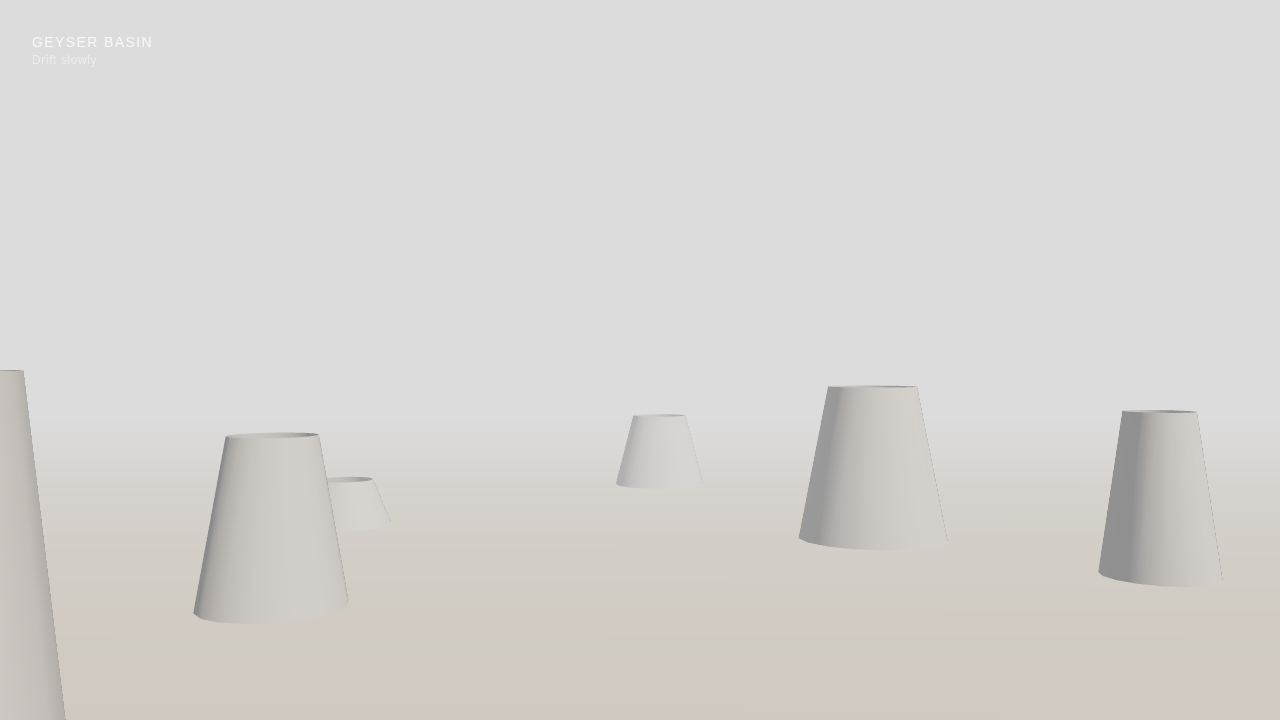
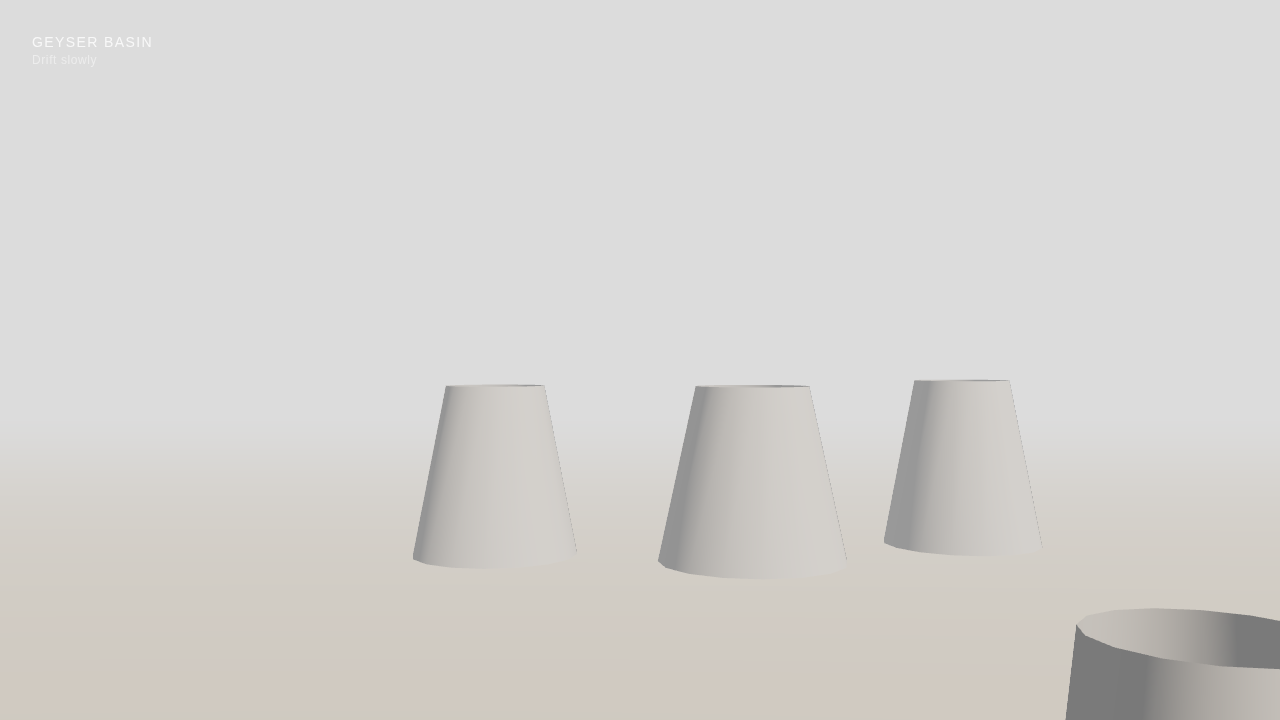
Fix review comments from PR #1

diff --git a/src/realms/GeyserBasin.js b/src/realms/GeyserBasin.js
@@ -1,5 +1,14 @@
 import * as THREE from 'three';
 
+const GEYSER_COUNT = 8;
+const GEYSER_MIN_HEIGHT = 0.5;
+const GEYSER_HEIGHT_RANGE = 1.5;
+const GEYSER_MIN_RADIUS = 0.3;
+const GEYSER_RADIUS_RANGE = 0.7;
+const GEYSER_MIN_DIST = 2;
+const GEYSER_DIST_RANGE = 8;
+const GEYSER_TOP_RADIUS_RATIO = 0.6;
+
 export class GeyserBasin {
     constructor() {
         this.group = new THREE.Group();
@@ -23,24 +32,26 @@ export class GeyserBasin {
             groundMaterial
         );
         ground.rotation.x = -Math.PI * 0.5;
+        ground.receiveShadow = true;
         this.group.add(ground);
 
         // Geysers (simple cylinders/cones)
-        for(let i = 0; i < 8; i++) {
-            const height = 0.5 + Math.random() * 1.5;
-            const radius = 0.3 + Math.random() * 0.7;
+        for(let i = 0; i < GEYSER_COUNT; i++) {
+            const height = GEYSER_MIN_HEIGHT + Math.random() * GEYSER_HEIGHT_RANGE;
+            const radius = GEYSER_MIN_RADIUS + Math.random() * GEYSER_RADIUS_RANGE;
             const geyser = new THREE.Mesh(
-                new THREE.CylinderGeometry(radius * 0.6, radius, height, 16, 1, true),
+                new THREE.CylinderGeometry(radius * GEYSER_TOP_RADIUS_RATIO, radius, height, 16, 1, true),
                 geyserMaterial
             );
 
             // Random position but avoid center too much
             const angle = Math.random() * Math.PI * 2;
-            const dist = 2 + Math.random() * 8;
+            const dist = GEYSER_MIN_DIST + Math.random() * GEYSER_DIST_RANGE;
 
             geyser.position.x = Math.sin(angle) * dist;
             geyser.position.z = Math.cos(angle) * dist;
             geyser.position.y = height * 0.5; // Sit on ground
+            geyser.castShadow = true;
 
             this.group.add(geyser);
         }

diff --git a/src/core/Experience.js b/src/core/Experience.js
@@ -2,6 +2,8 @@ import * as THREE from 'three';
 import { CameraRig } from './CameraRig.js';
 import { GeyserBasin } from '../realms/GeyserBasin.js';
 
+const BACKGROUND_COLOR = new THREE.Color('#dcdcdc');
+
 export class Experience {
     constructor(canvas) {
         this.canvas = canvas;
@@ -10,11 +12,13 @@ export class Experience {
             height: window.innerHeight
         };
 
+        this.clock = new THREE.Clock();
+
         // Scene setup
         this.scene = new THREE.Scene();
         // Atmospheric background color (matches Geyser Basin vibe: warm white/grey)
-        this.scene.background = new THREE.Color('#dcdcdc');
-        this.scene.fog = new THREE.FogExp2('#dcdcdc', 0.05);
+        this.scene.background = BACKGROUND_COLOR;
+        this.scene.fog = new THREE.FogExp2(BACKGROUND_COLOR, 0.05);
 
         // Camera setup
         this.camera = new THREE.PerspectiveCamera(35, this.sizes.width / this.sizes.height, 0.1, 100);
@@ -40,9 +44,8 @@ export class Experience {
         this.scene.add(this.geyserBasin.group);
 
         // Resize handling
-        window.addEventListener('resize', () => {
-            this.resize();
-        });
+        this.boundResize = this.resize.bind(this);
+        window.addEventListener('resize', this.boundResize);
 
         // Start loop
         this.tick();
@@ -60,8 +63,9 @@ export class Experience {
     }
 
     tick() {
-        this.cameraRig.update();
-        if (this.geyserBasin) this.geyserBasin.update();
+        const elapsedTime = this.clock.getElapsedTime();
+        this.cameraRig.update(elapsedTime);
+        if (this.geyserBasin) this.geyserBasin.update(elapsedTime);
         this.renderer.render(this.scene, this.camera);
         window.requestAnimationFrame(() => this.tick());
     }

diff --git a/src/core/CameraRig.js b/src/core/CameraRig.js
@@ -1,22 +1,27 @@
 import * as THREE from 'three';
 
+const DRIFT_SPEED = 0.12;
+const DRIFT_FREQ_X = 0.5;
+const DRIFT_AMP_X = 0.5;
+const DRIFT_FREQ_Y = 0.3;
+const DRIFT_AMP_Y = 0.2;
+const DRIFT_FREQ_Z = 0.4;
+const DRIFT_AMP_Z = 0.5;
+
 export class CameraRig {
     constructor(camera) {
         this.camera = camera;
-        this.time = 0;
-
-        // Base position to return to or drift around
         this.basePosition = this.camera.position.clone();
     }
 
-    update() {
-        this.time += 0.002; // Slow time scale for "drift"
+    update(time) {
+        const t = time * DRIFT_SPEED;
 
         // Gentle floating movement
         // Using different frequencies for x, y, z to avoid looping feeling
-        const driftX = Math.sin(this.time * 0.5) * 0.5;
-        const driftY = Math.sin(this.time * 0.3) * 0.2;
-        const driftZ = Math.cos(this.time * 0.4) * 0.5;
+        const driftX = Math.sin(t * DRIFT_FREQ_X) * DRIFT_AMP_X;
+        const driftY = Math.sin(t * DRIFT_FREQ_Y) * DRIFT_AMP_Y;
+        const driftZ = Math.cos(t * DRIFT_FREQ_Z) * DRIFT_AMP_Z;
 
         this.camera.position.x = this.basePosition.x + driftX;
         this.camera.position.y = this.basePosition.y + driftY;

diff --git a/src/main.js b/src/main.js
@@ -4,6 +4,6 @@ import { Experience } from './core/Experience.js';
 document.addEventListener('DOMContentLoaded', () => {
     const canvas = document.querySelector('canvas.webgl');
     if (canvas) {
-        new Experience(canvas);
+        const experience = new Experience(canvas);
     }
 });

diff --git a/verification/verify_app.py b/verification/verify_app.py
@@ -1,12 +1,14 @@
 from playwright.sync_api import sync_playwright
+import os
 
 def verify_app():
     with sync_playwright() as p:
         browser = p.chromium.launch(headless=True)
         page = browser.new_page()
 
-        print("Navigating to app...")
-        page.goto("http://localhost:5173/")
+        app_url = os.environ.get("APP_URL", "http://localhost:5173/")
+        print(f"Navigating to app at {app_url}...")
+        page.goto(app_url)
 
         print("Waiting for canvas...")
         page.wait_for_selector("canvas.webgl")
@@ -18,10 +20,8 @@ def verify_app():
         region_name = page.locator("#region-name").inner_text()
         print(f"Region name found: {region_name}")
 
-        if "GEYSER BASIN" in region_name.upper():
-            print("Region name verification passed.")
-        else:
-            print(f"Region name verification failed. Expected 'Geyser Basin', got '{region_name}'")
+        assert "GEYSER BASIN" in region_name.upper(), f"Region name verification failed. Expected 'Geyser Basin', got '{region_name}'"
+        print("Region name verification passed.")
 
         # Wait a bit for Three.js to render something
         page.wait_for_timeout(2000)
